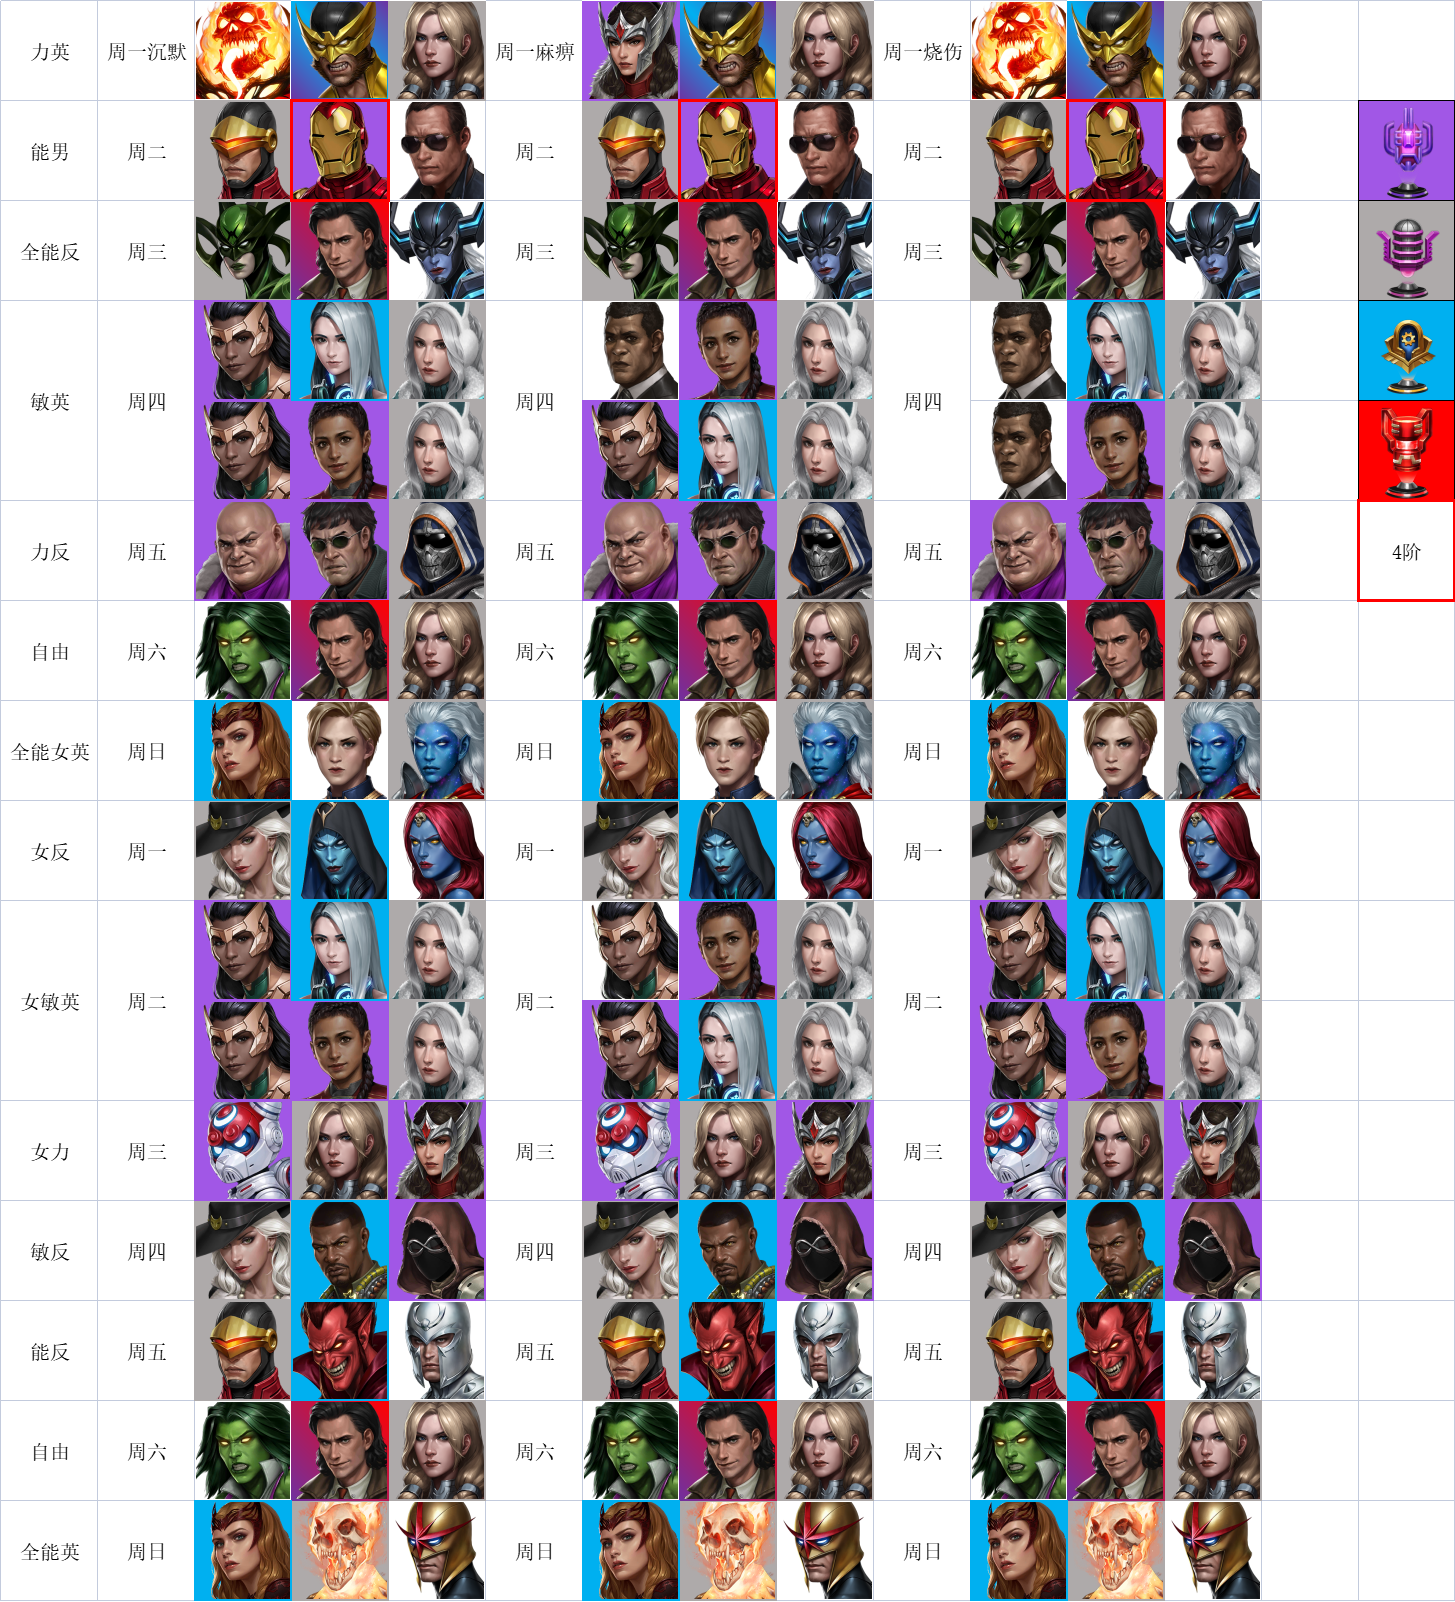
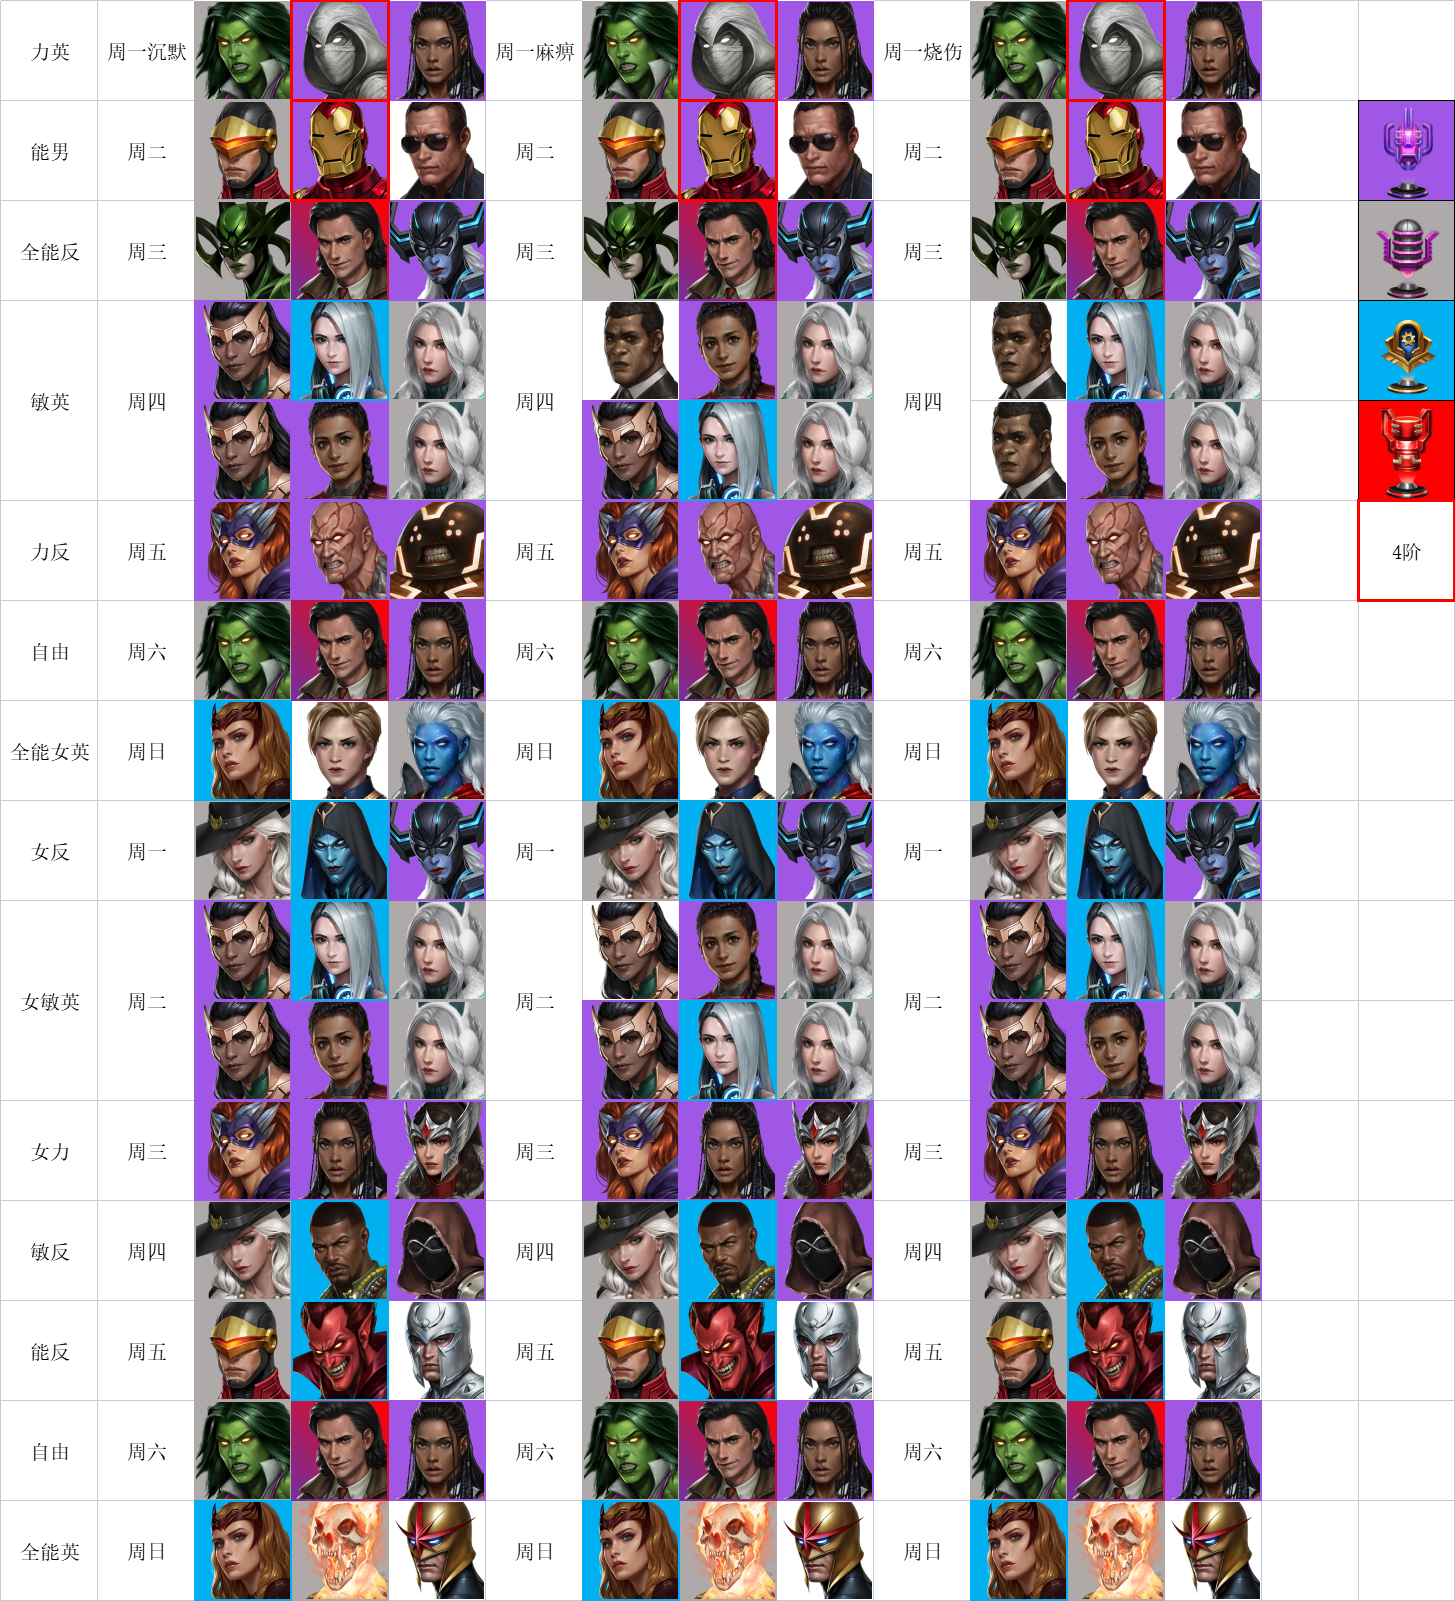
update 2022-09-04

diff --git a/_pages/2022-03-04-updata.md b/_pages/2022-03-04-updata.md
@@ -6,6 +6,16 @@ category: Jekyll
 layout: home
 ---
 
+#### 2022-09-04
+
+1.更新 **联盟战斗**   8.35版本
+
+© 2022 NextstepOne
+
+------
+
+
+
 #### 2022-08-19
 
 1.更新 **连招攻击**   8.3版本
